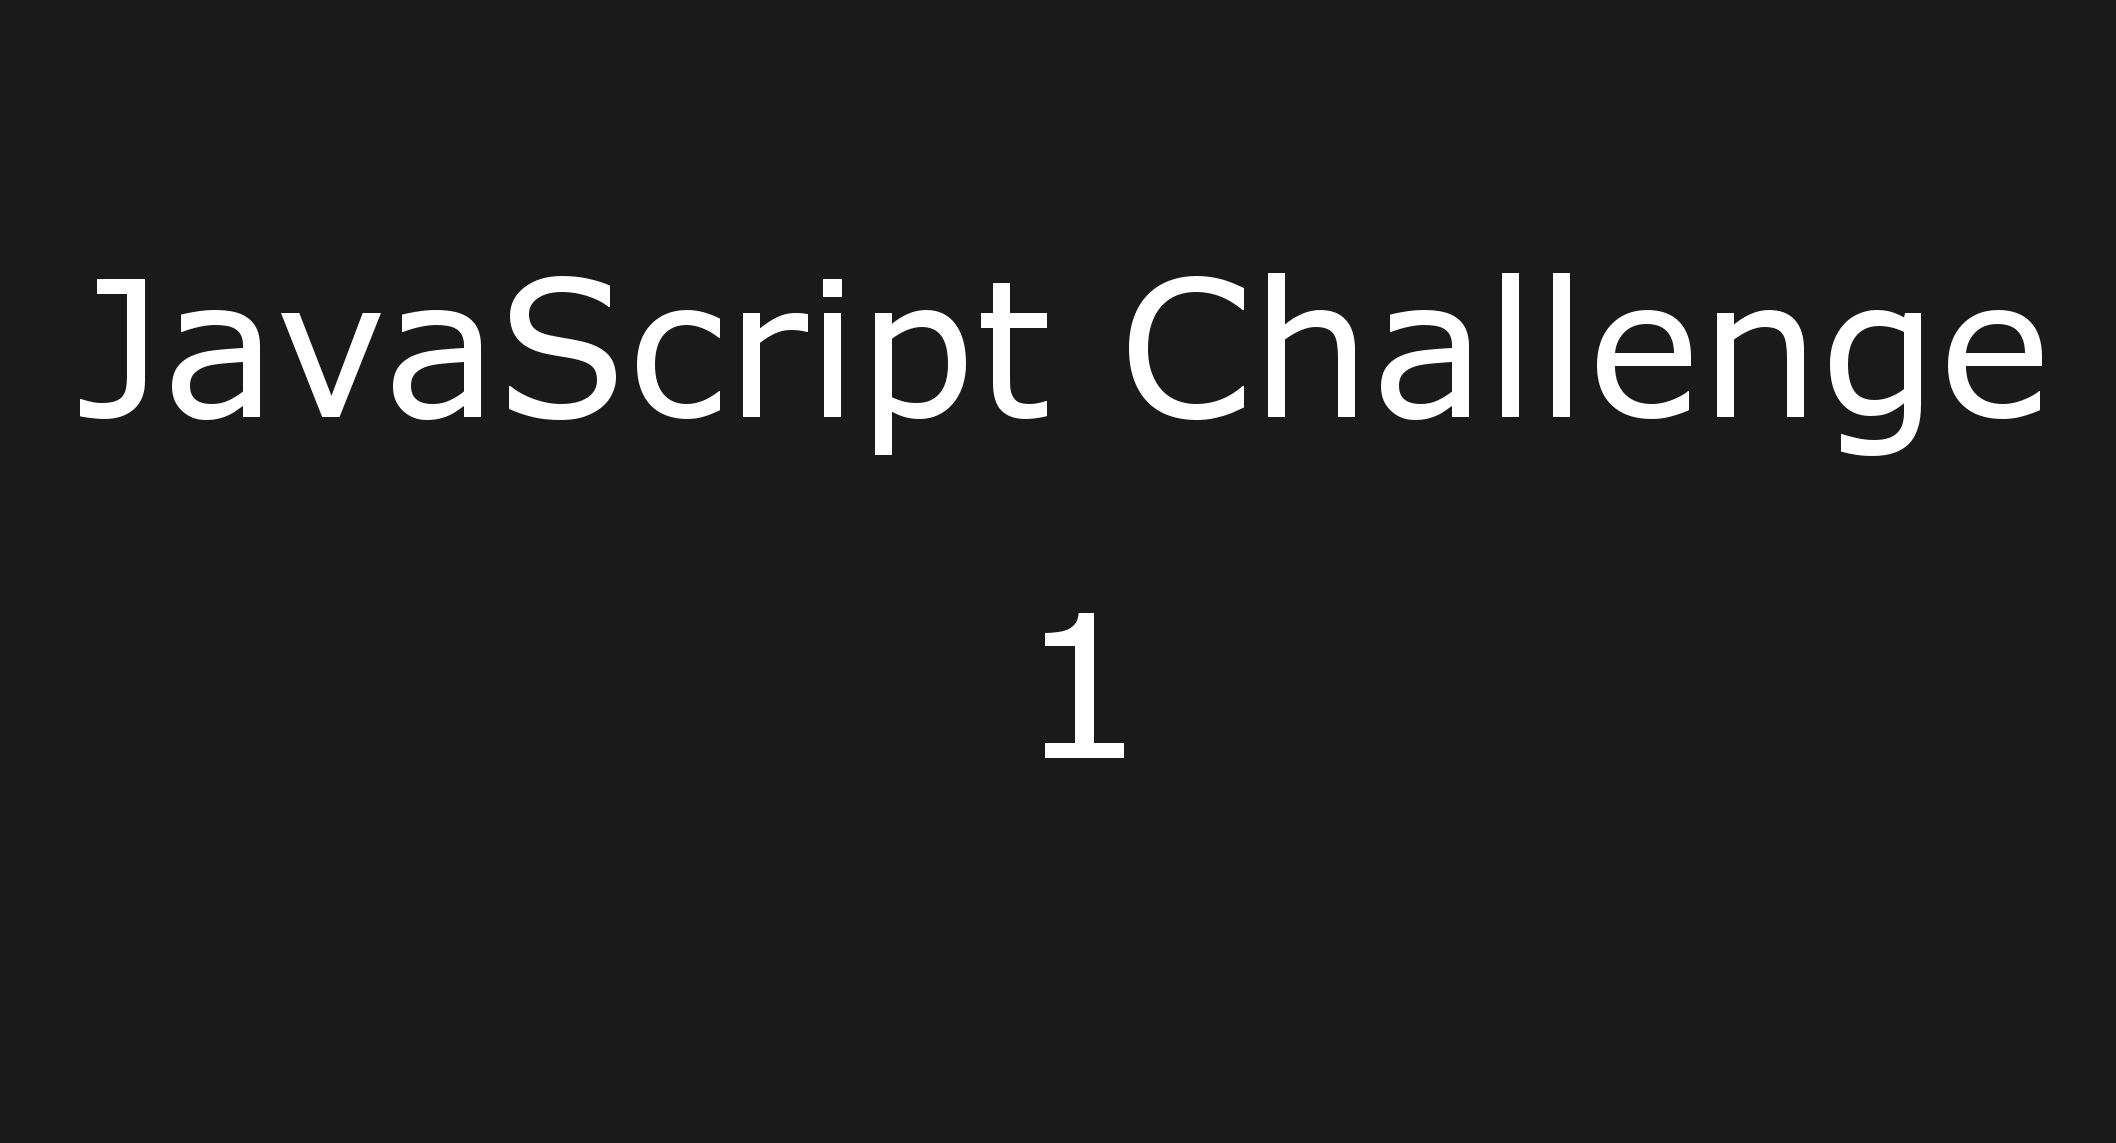
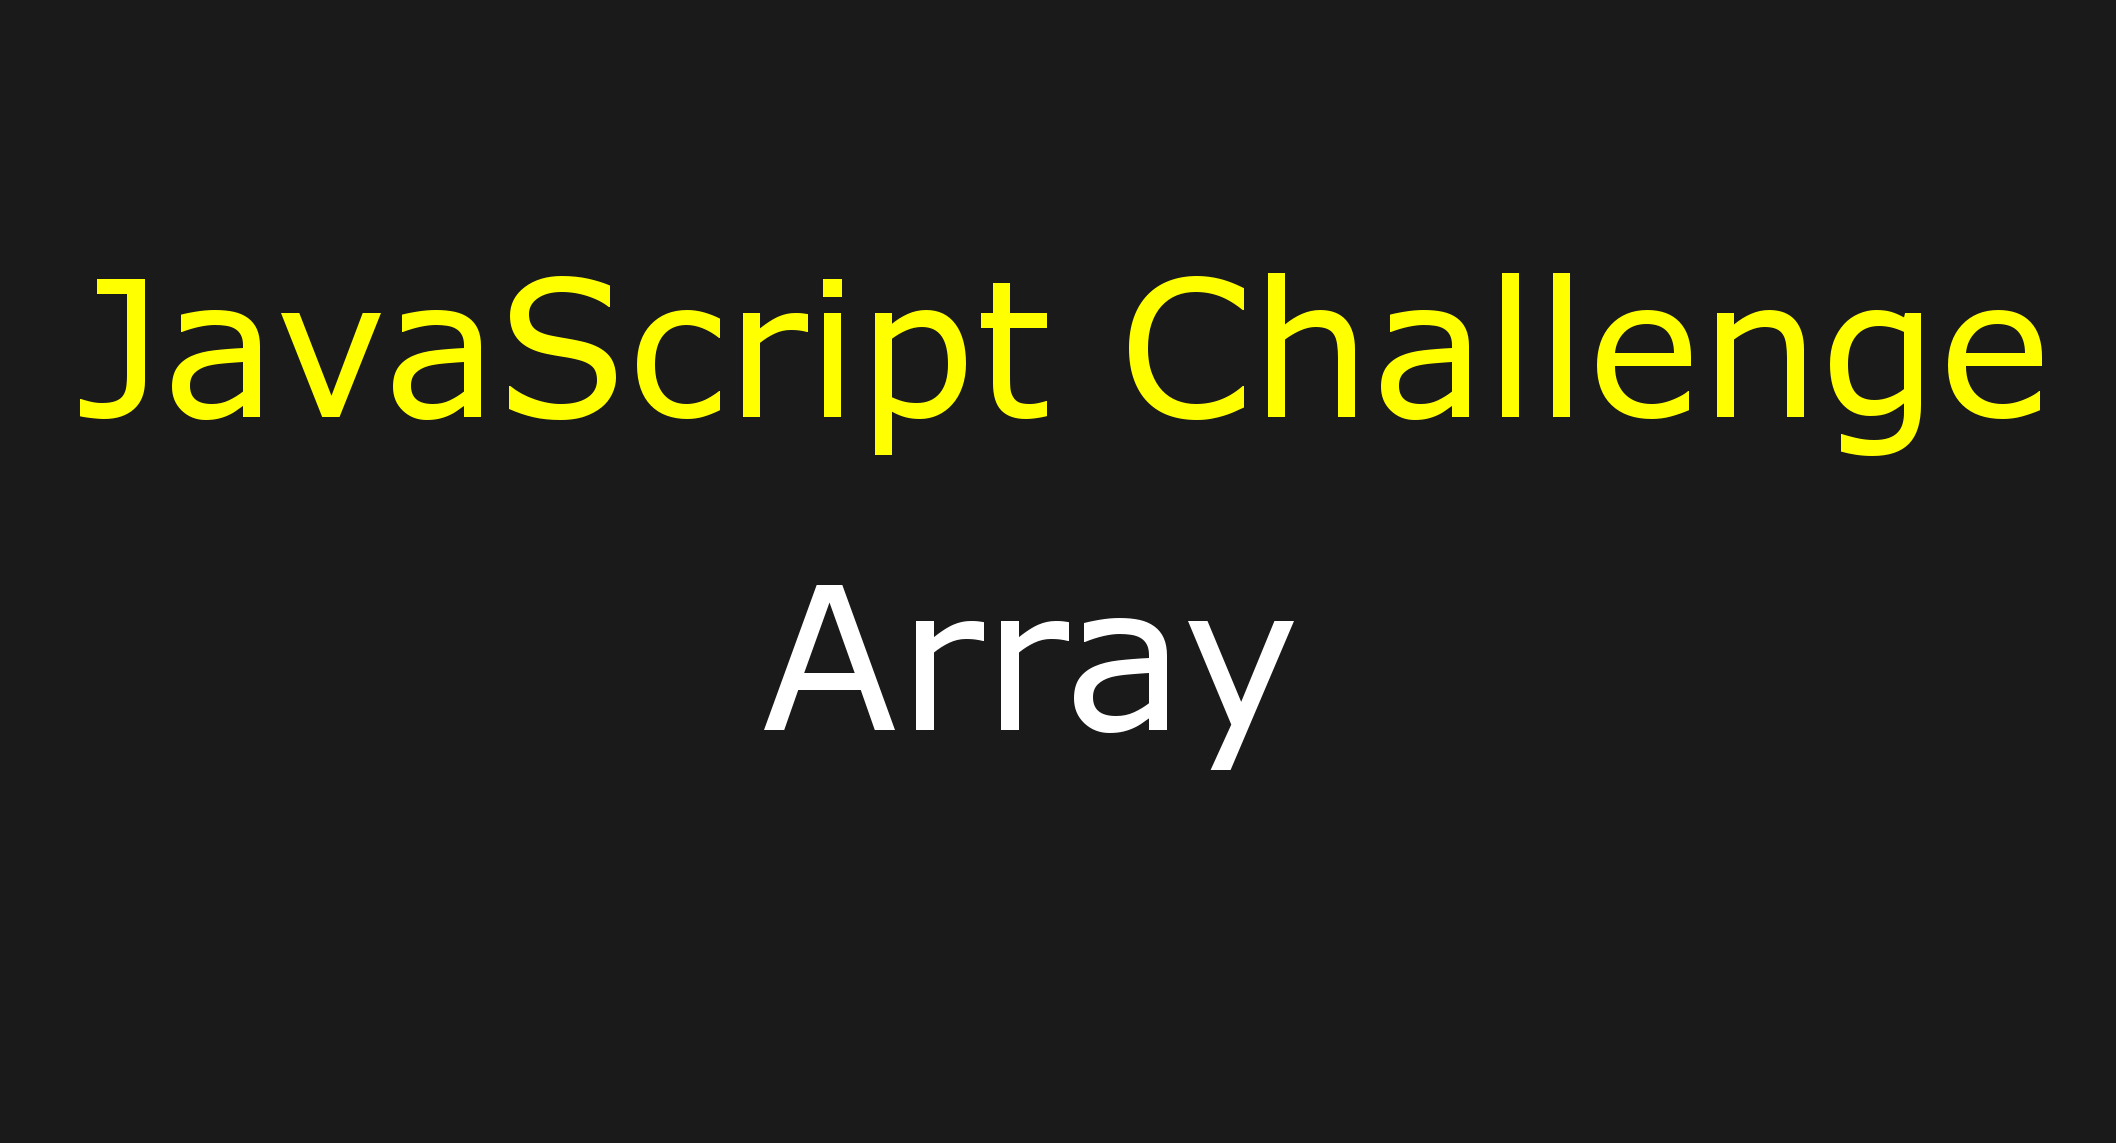
fixed the container margin on index. page seems larger now. made header text bigger, deleted text on instuctions

Changed region(s): [[0.0312, 0.245, 0.4991, 0.3981], [0.5302, 0.245, 0.9669, 0.3981], [0.3431, 0.4899, 0.6238, 0.6737]]

diff --git a/src/index.html b/src/index.html
@@ -22,27 +22,18 @@
             <div class="row">
                 <img onclick="saveSelection(this)" id="1" class="challenge-image" src="https://raw.githubusercontent.com/mikebranstein/JavaScriptChallenge/gh-pages/images/JSchallenge01.PNG" />
             </div>
-            <!--<div class="row" style="margin-top: 20px">
-                Challenge 1
-            </div>-->
            <hr>
         </div>
         <div class="col-md-4" id="challengeTwoTimes">
             <div class="row" >
                 <img onclick="saveSelection(this)" id="2" class="challenge-image" src="https://raw.githubusercontent.com/mikebranstein/JavaScriptChallenge/gh-pages/images/JSchallenge02.PNG" />
             </div>
-            <!--<div class="row" style="margin-top: 20px">
-                Challenge 2
-            </div>-->
              <hr>
         </div>
         <div class="col-md-4" id="challengeThreeTimes">
             <div class="row">
                 <img onclick="saveSelection(this)" id="3" class="challenge-image" src="https://raw.githubusercontent.com/mikebranstein/JavaScriptChallenge/gh-pages/images/JSchallenge03.PNG" />
             </div>
-            <!--<div class="row"style="margin-top: 20px">
-                Challenge 3
-            </div>-->
              <hr>
         </div>
     </div>

diff --git a/src/instructions1.html b/src/instructions1.html
@@ -14,9 +14,6 @@
                 Instructions
             </span>
     </h1>
-    <h4>
-        Hello there competitor!
-    </h4>
     <h5>
         The goal here is simple. You will be given a function that is handed an array of integers. Your goal is to return an array,
         sorted ascending, as quickly as possible. You have two minutes to complete this challenge.

diff --git a/src/instructions2.html b/src/instructions2.html
@@ -14,9 +14,6 @@
                 Instructions
             </span>
     </h1>
-    <h4>
-        Hello there competitor!
-    </h4>
     <h5>
         This challenge will test your knowledge of scope!<div>Please determine what the function will output to the console.</div> <div>Dont over think it!</div>    
     </h5>

diff --git a/src/instructions3.html b/src/instructions3.html
@@ -15,9 +15,6 @@
                 Instructions
             </span>
     </h1>
-    <h4>
-        Hello there competitor!
-    </h4>
     <h5 style="font-size: 0.83em">
         <div>string = char[]</div> 
         <div>Reverse the string thats been handed to the function.</div>

diff --git a/src/css/main.css b/src/css/main.css
@@ -42,7 +42,7 @@ body {
 
 
 .header {
-    font-size: 1em;
+    font-size: 2.5em;
     color: yellow;
 }
 
@@ -92,4 +92,7 @@ body {
 .alert-danger{
     font-size: 3em;
     font-family: Arial, Helvetica, sans-serif;
+}
+.container {
+    width: 90% !important;
 }
